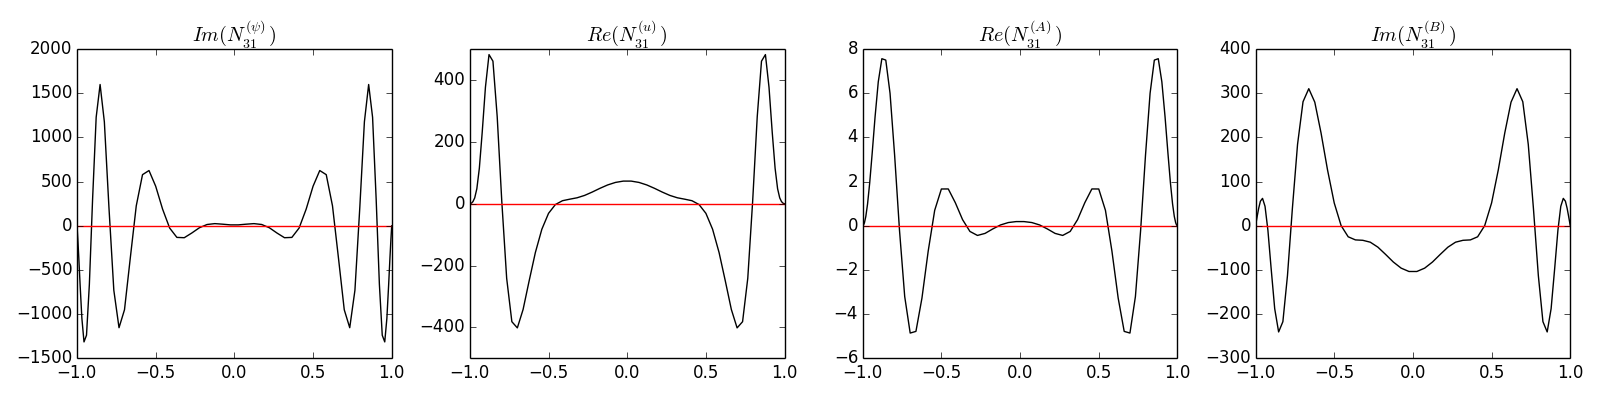
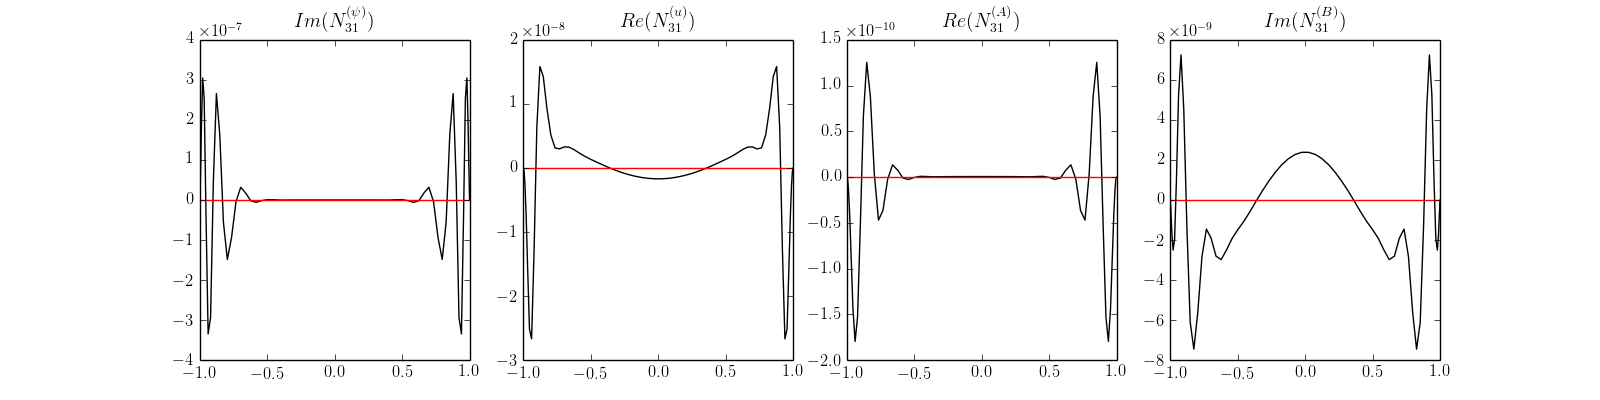
psi20 set explicitly to zero

Changed region(s): [[0.0, 0.03, 1.0, 0.96], [0.0, 0.21, 0.0625, 0.51]]

diff --git a/python/allorders.py b/python/allorders.py
@@ -280,7 +280,7 @@ class OrderE():
             a = self.LEV.state['psi']['g'].real[13]/n
             b = self.LEV.state['psi']['g'].imag[13]/n
             scale = 1j*a/(b*(a**2/b+b)) + 1./(a**2/b +b)
-            scale *= -664.4114817
+            scale *= -664.4114817 
             
             self.psi = LEV.state['psi']['g']*scale
             self.u = LEV.state['u']['g']*scale
@@ -669,6 +669,7 @@ class OrderE2():
         
         self.lv20psi = lv20psi
         self.LEV20psi = LEV20psi
+        self.LEV20psi.state['psi20']['g'] = np.zeros(gridnum) # An elegant hack! added 12/2
         
         self.lv20u = lv20u
         self.LEV20u = LEV20u
@@ -813,7 +814,7 @@ class OrderE2():
             b = self.LEV21.state['psi21']['g'].imag[13]/n
             scale = 1j*a/(b*(a**2/b+b)) + 1./(a**2/b +b)
             tt = 1j*132/29.097408658719342
-            scale *= tt
+            scale *= tt 
             
             self.psi21 = LEV21.state['psi21']['g']*scale
             self.u21 = LEV21.state['u21']['g']*scale
